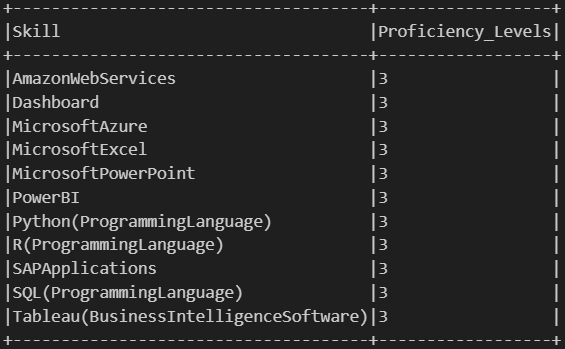
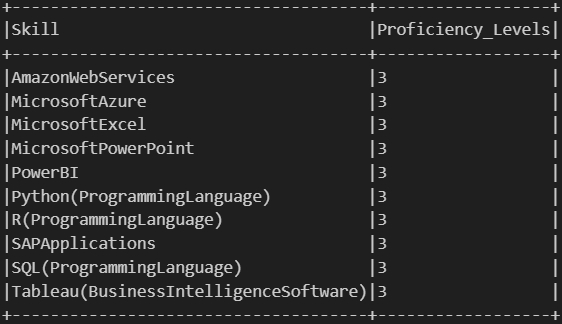
Built site for gh-pages

diff --git a/skill_gap_analysis.html b/skill_gap_analysis.html
@@ -209,7 +209,7 @@ pre > code.sourceCode > span > a:first-child::before { text-decoration: underlin
 </header>
 
 
-<div id="30c516d3" class="cell" data-execution_count="1">
+<div id="5d2c0c7f" class="cell" data-execution_count="1">
 <details class="code-fold">
 <summary>Code</summary>
 <div class="sourceCode cell-code" id="cb1"><pre class="sourceCode python code-with-copy"><code class="sourceCode python"><span id="cb1-1"><a href="#cb1-1" aria-hidden="true" tabindex="-1"></a><span class="im">import</span> pandas <span class="im">as</span> pd</span>
@@ -231,7 +231,7 @@ pre > code.sourceCode > span > a:first-child::before { text-decoration: underlin
 <section id="creating-a-team-based-skills-data-framework" class="level2" data-number="1">
 <h2 data-number="1" class="anchored" data-anchor-id="creating-a-team-based-skills-data-framework"><span class="header-section-number">1</span> Creating a team-based skills data framework</h2>
 <p>We take a column of software skill names from the cleaned dataset, splits each entry, cleans up the text, and counts how often each skill appears. Then, we grabs the top 30 most frequent skills, and puts them into a tidy table using pandas to make it easier to view.</p>
-<div id="704a8bbf" class="cell" data-execution_count="2">
+<div id="e9626d57" class="cell" data-execution_count="2">
 <details class="code-fold">
 <summary>Code</summary>
 <div class="sourceCode cell-code" id="cb2"><pre class="sourceCode python code-with-copy"><code class="sourceCode python"><span id="cb2-1"><a href="#cb2-1" aria-hidden="true" tabindex="-1"></a><span class="im">from</span> collections <span class="im">import</span> Counter</span>
@@ -258,7 +258,7 @@ pre > code.sourceCode > span > a:first-child::before { text-decoration: underlin
 </details>
 </div>
 <p>We build a table showing the skill levels of our team members across various tools like SQL, Excel, Python, and others. Then we create a heatmap to visually highlight each person’s strengths and weaknesses, making it easy to compare skill levels across the team.</p>
-<div id="5a4fcc85" class="cell" data-execution_count="3">
+<div id="ddbd346f" class="cell" data-execution_count="3">
 <details class="code-fold">
 <summary>Code</summary>
 <div class="sourceCode cell-code" id="cb3"><pre class="sourceCode python code-with-copy"><code class="sourceCode python"><span id="cb3-1"><a href="#cb3-1" aria-hidden="true" tabindex="-1"></a><span class="im">import</span> pandas <span class="im">as</span> pd</span>
@@ -268,36 +268,35 @@ pre > code.sourceCode > span > a:first-child::before { text-decoration: underlin
 <span id="cb3-5"><a href="#cb3-5" aria-hidden="true" tabindex="-1"></a><span class="co"># 1. Construct team skill level data</span></span>
 <span id="cb3-6"><a href="#cb3-6" aria-hidden="true" tabindex="-1"></a>skills_data <span class="op">=</span> {</span>
 <span id="cb3-7"><a href="#cb3-7" aria-hidden="true" tabindex="-1"></a>    <span class="st">"Name"</span>: [<span class="st">"Yuxuan Chen"</span>, <span class="st">"Shangxuan Zhong"</span>, <span class="st">"Qimin Shen"</span>, <span class="st">"Altyn Baigaliyeva"</span>],</span>
-<span id="cb3-8"><a href="#cb3-8" aria-hidden="true" tabindex="-1"></a>    <span class="st">"SQL"</span>: [<span class="dv">5</span>, <span class="dv">4</span>, <span class="dv">4</span>, <span class="dv">2</span>],</span>
+<span id="cb3-8"><a href="#cb3-8" aria-hidden="true" tabindex="-1"></a>    <span class="st">"SQL"</span>: [<span class="dv">3</span>, <span class="dv">4</span>, <span class="dv">4</span>, <span class="dv">2</span>],</span>
 <span id="cb3-9"><a href="#cb3-9" aria-hidden="true" tabindex="-1"></a>    <span class="st">"Excel"</span>: [<span class="dv">4</span>, <span class="dv">4</span>, <span class="dv">4</span>, <span class="dv">3</span>],</span>
-<span id="cb3-10"><a href="#cb3-10" aria-hidden="true" tabindex="-1"></a>    <span class="st">"Python"</span>: [<span class="dv">3</span>, <span class="dv">4</span>, <span class="dv">4</span>, <span class="dv">2</span>],</span>
-<span id="cb3-11"><a href="#cb3-11" aria-hidden="true" tabindex="-1"></a>    <span class="st">"SAP Applications"</span>: [<span class="dv">2</span>, <span class="dv">2</span>, <span class="dv">2</span>, <span class="dv">1</span>],</span>
-<span id="cb3-12"><a href="#cb3-12" aria-hidden="true" tabindex="-1"></a>    <span class="st">"Dashboard"</span>: [<span class="dv">2</span>, <span class="dv">2</span>, <span class="dv">2</span>, <span class="dv">1</span>],</span>
-<span id="cb3-13"><a href="#cb3-13" aria-hidden="true" tabindex="-1"></a>    <span class="st">"Tableau"</span>: [<span class="dv">2</span>, <span class="dv">2</span>, <span class="dv">1</span>, <span class="dv">1</span>],</span>
-<span id="cb3-14"><a href="#cb3-14" aria-hidden="true" tabindex="-1"></a>    <span class="st">"PowerBI"</span>: [<span class="dv">2</span>, <span class="dv">2</span>, <span class="dv">2</span>, <span class="dv">1</span>],</span>
-<span id="cb3-15"><a href="#cb3-15" aria-hidden="true" tabindex="-1"></a>    <span class="st">"PowerPoint"</span>: [<span class="dv">2</span>, <span class="dv">4</span>, <span class="dv">3</span>, <span class="dv">1</span>],</span>
-<span id="cb3-16"><a href="#cb3-16" aria-hidden="true" tabindex="-1"></a>    <span class="st">"R"</span>: [<span class="dv">2</span>, <span class="dv">4</span>, <span class="dv">4</span>, <span class="dv">1</span>],</span>
-<span id="cb3-17"><a href="#cb3-17" aria-hidden="true" tabindex="-1"></a>    <span class="st">"Azure"</span>: [<span class="dv">2</span>, <span class="dv">2</span>, <span class="dv">1</span>, <span class="dv">1</span>],</span>
-<span id="cb3-18"><a href="#cb3-18" aria-hidden="true" tabindex="-1"></a>    <span class="st">"Amazon Web Services"</span>: [<span class="dv">2</span>, <span class="dv">2</span>, <span class="dv">3</span>, <span class="dv">1</span>]</span>
-<span id="cb3-19"><a href="#cb3-19" aria-hidden="true" tabindex="-1"></a>}</span>
-<span id="cb3-20"><a href="#cb3-20" aria-hidden="true" tabindex="-1"></a></span>
-<span id="cb3-21"><a href="#cb3-21" aria-hidden="true" tabindex="-1"></a><span class="co"># 2. Create dataframe and set Name as index</span></span>
-<span id="cb3-22"><a href="#cb3-22" aria-hidden="true" tabindex="-1"></a>df_skills <span class="op">=</span> pd.DataFrame(skills_data)</span>
-<span id="cb3-23"><a href="#cb3-23" aria-hidden="true" tabindex="-1"></a>df_skills.set_index(<span class="st">"Name"</span>, inplace<span class="op">=</span><span class="va">True</span>)</span>
-<span id="cb3-24"><a href="#cb3-24" aria-hidden="true" tabindex="-1"></a></span>
-<span id="cb3-25"><a href="#cb3-25" aria-hidden="true" tabindex="-1"></a><span class="co"># 3. Demonstrate the skill level chart</span></span>
-<span id="cb3-26"><a href="#cb3-26" aria-hidden="true" tabindex="-1"></a><span class="co">#print("Team Skill Rating Scale:")</span></span>
-<span id="cb3-27"><a href="#cb3-27" aria-hidden="true" tabindex="-1"></a><span class="co">#display(df_skills) </span></span>
-<span id="cb3-28"><a href="#cb3-28" aria-hidden="true" tabindex="-1"></a></span>
-<span id="cb3-29"><a href="#cb3-29" aria-hidden="true" tabindex="-1"></a><span class="co"># 4. Visualize the skills gap by heat map</span></span>
-<span id="cb3-30"><a href="#cb3-30" aria-hidden="true" tabindex="-1"></a>plt.figure(figsize<span class="op">=</span>(<span class="dv">8</span>, <span class="dv">6</span>))</span>
-<span id="cb3-31"><a href="#cb3-31" aria-hidden="true" tabindex="-1"></a>sns.heatmap(df_skills, annot<span class="op">=</span><span class="va">True</span>, cmap<span class="op">=</span><span class="st">"coolwarm"</span>, linewidths<span class="op">=</span><span class="fl">0.5</span>, cbar_kws<span class="op">=</span>{<span class="st">'label'</span>: <span class="st">'Skill Level'</span>})</span>
-<span id="cb3-32"><a href="#cb3-32" aria-hidden="true" tabindex="-1"></a>plt.title(<span class="st">"Team Skill Levels Heatmap"</span>)</span>
-<span id="cb3-33"><a href="#cb3-33" aria-hidden="true" tabindex="-1"></a>plt.xticks(rotation<span class="op">=</span><span class="dv">45</span>)  </span>
-<span id="cb3-34"><a href="#cb3-34" aria-hidden="true" tabindex="-1"></a>plt.yticks(rotation<span class="op">=</span><span class="dv">0</span>)</span>
-<span id="cb3-35"><a href="#cb3-35" aria-hidden="true" tabindex="-1"></a>plt.tight_layout()</span>
-<span id="cb3-36"><a href="#cb3-36" aria-hidden="true" tabindex="-1"></a>plt.savefig(<span class="st">"images/Skill_Level.png"</span>, dpi<span class="op">=</span><span class="dv">300</span>)</span>
-<span id="cb3-37"><a href="#cb3-37" aria-hidden="true" tabindex="-1"></a>plt.show()</span></code><button title="Copy to Clipboard" class="code-copy-button"><i class="bi"></i></button></pre></div>
+<span id="cb3-10"><a href="#cb3-10" aria-hidden="true" tabindex="-1"></a>    <span class="st">"Python"</span>: [<span class="dv">4</span>, <span class="dv">4</span>, <span class="dv">4</span>, <span class="dv">2</span>],</span>
+<span id="cb3-11"><a href="#cb3-11" aria-hidden="true" tabindex="-1"></a>    <span class="st">"SAP Applications"</span>: [<span class="dv">1</span>, <span class="dv">2</span>, <span class="dv">2</span>, <span class="dv">1</span>],</span>
+<span id="cb3-12"><a href="#cb3-12" aria-hidden="true" tabindex="-1"></a>    <span class="st">"Tableau"</span>: [<span class="dv">3</span>, <span class="dv">2</span>, <span class="dv">1</span>, <span class="dv">1</span>],</span>
+<span id="cb3-13"><a href="#cb3-13" aria-hidden="true" tabindex="-1"></a>    <span class="st">"PowerBI"</span>: [<span class="dv">3</span>, <span class="dv">2</span>, <span class="dv">2</span>, <span class="dv">1</span>],</span>
+<span id="cb3-14"><a href="#cb3-14" aria-hidden="true" tabindex="-1"></a>    <span class="st">"PowerPoint"</span>: [<span class="dv">4</span>, <span class="dv">4</span>, <span class="dv">3</span>, <span class="dv">1</span>],</span>
+<span id="cb3-15"><a href="#cb3-15" aria-hidden="true" tabindex="-1"></a>    <span class="st">"R"</span>: [<span class="dv">4</span>, <span class="dv">4</span>, <span class="dv">4</span>, <span class="dv">1</span>],</span>
+<span id="cb3-16"><a href="#cb3-16" aria-hidden="true" tabindex="-1"></a>    <span class="st">"Azure"</span>: [<span class="dv">2</span>, <span class="dv">2</span>, <span class="dv">1</span>, <span class="dv">1</span>],</span>
+<span id="cb3-17"><a href="#cb3-17" aria-hidden="true" tabindex="-1"></a>    <span class="st">"Amazon Web Services"</span>: [<span class="dv">3</span>, <span class="dv">2</span>, <span class="dv">3</span>, <span class="dv">1</span>]</span>
+<span id="cb3-18"><a href="#cb3-18" aria-hidden="true" tabindex="-1"></a>}</span>
+<span id="cb3-19"><a href="#cb3-19" aria-hidden="true" tabindex="-1"></a></span>
+<span id="cb3-20"><a href="#cb3-20" aria-hidden="true" tabindex="-1"></a><span class="co"># 2. Create dataframe and set Name as index</span></span>
+<span id="cb3-21"><a href="#cb3-21" aria-hidden="true" tabindex="-1"></a>df_skills <span class="op">=</span> pd.DataFrame(skills_data)</span>
+<span id="cb3-22"><a href="#cb3-22" aria-hidden="true" tabindex="-1"></a>df_skills.set_index(<span class="st">"Name"</span>, inplace<span class="op">=</span><span class="va">True</span>)</span>
+<span id="cb3-23"><a href="#cb3-23" aria-hidden="true" tabindex="-1"></a></span>
+<span id="cb3-24"><a href="#cb3-24" aria-hidden="true" tabindex="-1"></a><span class="co"># 3. Demonstrate the skill level chart</span></span>
+<span id="cb3-25"><a href="#cb3-25" aria-hidden="true" tabindex="-1"></a><span class="co">#print("Team Skill Rating Scale:")</span></span>
+<span id="cb3-26"><a href="#cb3-26" aria-hidden="true" tabindex="-1"></a><span class="co">#display(df_skills) </span></span>
+<span id="cb3-27"><a href="#cb3-27" aria-hidden="true" tabindex="-1"></a></span>
+<span id="cb3-28"><a href="#cb3-28" aria-hidden="true" tabindex="-1"></a><span class="co"># 4. Visualize the skills gap by heat map</span></span>
+<span id="cb3-29"><a href="#cb3-29" aria-hidden="true" tabindex="-1"></a>plt.figure(figsize<span class="op">=</span>(<span class="dv">8</span>, <span class="dv">6</span>))</span>
+<span id="cb3-30"><a href="#cb3-30" aria-hidden="true" tabindex="-1"></a>sns.heatmap(df_skills, annot<span class="op">=</span><span class="va">True</span>, cmap<span class="op">=</span><span class="st">"coolwarm"</span>, linewidths<span class="op">=</span><span class="fl">0.5</span>, cbar_kws<span class="op">=</span>{<span class="st">'label'</span>: <span class="st">'Skill Level'</span>})</span>
+<span id="cb3-31"><a href="#cb3-31" aria-hidden="true" tabindex="-1"></a>plt.title(<span class="st">"Team Skill Levels Heatmap"</span>)</span>
+<span id="cb3-32"><a href="#cb3-32" aria-hidden="true" tabindex="-1"></a>plt.xticks(rotation<span class="op">=</span><span class="dv">45</span>)  </span>
+<span id="cb3-33"><a href="#cb3-33" aria-hidden="true" tabindex="-1"></a>plt.yticks(rotation<span class="op">=</span><span class="dv">0</span>)</span>
+<span id="cb3-34"><a href="#cb3-34" aria-hidden="true" tabindex="-1"></a>plt.tight_layout()</span>
+<span id="cb3-35"><a href="#cb3-35" aria-hidden="true" tabindex="-1"></a>plt.savefig(<span class="st">"images/Skill_Level.png"</span>, dpi<span class="op">=</span><span class="dv">300</span>)</span>
+<span id="cb3-36"><a href="#cb3-36" aria-hidden="true" tabindex="-1"></a>plt.show()</span></code><button title="Copy to Clipboard" class="code-copy-button"><i class="bi"></i></button></pre></div>
 </details>
 </div>
 <p><img src="./images/Skill_Level.png" class="img-fluid" alt="Team strengths and gaps"> 缺少解释 这个我就先不解释了，等大家数据更新完重新画了再解释，我把我数据改了</p>
@@ -305,7 +304,7 @@ pre > code.sourceCode > span > a:first-child::before { text-decoration: underlin
 <section id="compare-team-skills-to-industry-requirements" class="level2" data-number="2">
 <h2 data-number="2" class="anchored" data-anchor-id="compare-team-skills-to-industry-requirements"><span class="header-section-number">2</span> Compare team skills to industry requirements</h2>
 <p>We add a new column EDU_MATCH to the dataset to check if each person’s actual education level matches the minimum education requirement. If they match, it labels the row as “Match”; otherwise, it marks it as “Mismatch.” This makes it easy to see who meets the education criteria and who doesn’t.</p>
-<div id="90f25b81" class="cell" data-execution_count="4">
+<div id="4c84757c" class="cell" data-execution_count="4">
 <details class="code-fold">
 <summary>Code</summary>
 <div class="sourceCode cell-code" id="cb4"><pre class="sourceCode python code-with-copy"><code class="sourceCode python"><span id="cb4-1"><a href="#cb4-1" aria-hidden="true" tabindex="-1"></a><span class="im">from</span> pyspark.sql.functions <span class="im">import</span> col, when</span>
@@ -326,7 +325,7 @@ pre > code.sourceCode > span > a:first-child::before { text-decoration: underlin
 </details>
 </div>
 <p>Then we create a reference table that links each unique minimum education level required for a job to a corresponding score. It assigns higher scores to higher education levels, for example, a Ph.D.&nbsp;gets a 5, a Master’s a 4, and so on, down to 0 for jobs that list no education requirement. And we think this scoring helps quantify and compare job expectations based on the level of education required.</p>
-<div id="966dbee7" class="cell" data-execution_count="5">
+<div id="f14a47ba" class="cell" data-execution_count="5">
 <details class="code-fold">
 <summary>Code</summary>
 <div class="sourceCode cell-code" id="cb5"><pre class="sourceCode python code-with-copy"><code class="sourceCode python"><span id="cb5-1"><a href="#cb5-1" aria-hidden="true" tabindex="-1"></a><span class="im">from</span> pyspark.sql.functions <span class="im">import</span> when, lit, col, trim</span>
@@ -356,7 +355,7 @@ pre > code.sourceCode > span > a:first-child::before { text-decoration: underlin
 </figure>
 </div>
 <p>We analyze how often each software skill appears in job listings, categorized by the required education level (which we previously converted into scores). First, we join the education score to each job, split the combined skill strings into individual skills, and count how frequently each skill appears at each education score level. Second, we reshape the data so that each skill shows the number of times it appears across all score levels. Finally, we identify the most common score for each skill. If multiple scores tie for the highest count, we will select the lowest one among them—resulting in a “Proficiency_Levels” value that reflects the typical education requirement associated with that skill in the job market.</p>
-<div id="cdc6b488" class="cell" data-execution_count="6">
+<div id="e78458f7" class="cell" data-execution_count="6">
 <details class="code-fold">
 <summary>Code</summary>
 <div class="sourceCode cell-code" id="cb6"><pre class="sourceCode python code-with-copy"><code class="sourceCode python"><span id="cb6-1"><a href="#cb6-1" aria-hidden="true" tabindex="-1"></a><span class="im">from</span> pyspark.sql.functions <span class="im">import</span> count, array, struct, sort_array, expr, size, element_at, col, lit, greatest, when</span>
@@ -402,7 +401,7 @@ pre > code.sourceCode > span > a:first-child::before { text-decoration: underlin
 </details>
 </div>
 <p>Here we focus on a specific set of software skills that are relevant to our analysis. First, we define a list of target skills we’re interested in, such as SQL, Excel, Python, Tableau, and others. Then, we filter our previously processed skill data to only include these selected skills, keeping just the skill names and their associated “Proficiency_Levels”. Finally, we sort the result alphabetically by skill name to make it easier to review and compare.</p>
-<div id="bf56fb79" class="cell" data-execution_count="7">
+<div id="d254e016" class="cell" data-execution_count="7">
 <details class="code-fold">
 <summary>Code</summary>
 <div class="sourceCode cell-code" id="cb7"><pre class="sourceCode python code-with-copy"><code class="sourceCode python"><span id="cb7-1"><a href="#cb7-1" aria-hidden="true" tabindex="-1"></a><span class="im">from</span> pyspark.sql.functions <span class="im">import</span> lit</span>
@@ -410,7 +409,7 @@ pre > code.sourceCode > span > a:first-child::before { text-decoration: underlin
 <span id="cb7-3"><a href="#cb7-3" aria-hidden="true" tabindex="-1"></a><span class="co"># 1. Define a list of target skills</span></span>
 <span id="cb7-4"><a href="#cb7-4" aria-hidden="true" tabindex="-1"></a>target_skills <span class="op">=</span> [</span>
 <span id="cb7-5"><a href="#cb7-5" aria-hidden="true" tabindex="-1"></a>    <span class="st">"SQL(ProgrammingLanguage)"</span>, <span class="st">"MicrosoftExcel"</span>, <span class="st">"Python(ProgrammingLanguage)"</span>,</span>
-<span id="cb7-6"><a href="#cb7-6" aria-hidden="true" tabindex="-1"></a>    <span class="st">"SAPApplications"</span>, <span class="st">"Dashboard"</span>, <span class="st">"Tableau(BusinessIntelligenceSoftware)"</span>,</span>
+<span id="cb7-6"><a href="#cb7-6" aria-hidden="true" tabindex="-1"></a>    <span class="st">"SAPApplications"</span>, <span class="st">"Tableau(BusinessIntelligenceSoftware)"</span>,</span>
 <span id="cb7-7"><a href="#cb7-7" aria-hidden="true" tabindex="-1"></a>    <span class="st">"PowerBI"</span>, <span class="st">"MicrosoftPowerPoint"</span>, <span class="st">"R(ProgrammingLanguage)"</span>,</span>
 <span id="cb7-8"><a href="#cb7-8" aria-hidden="true" tabindex="-1"></a>    <span class="st">"MicrosoftAzure"</span>, <span class="st">"AmazonWebServices"</span></span>
 <span id="cb7-9"><a href="#cb7-9" aria-hidden="true" tabindex="-1"></a>]</span>
@@ -431,7 +430,7 @@ pre > code.sourceCode > span > a:first-child::before { text-decoration: underlin
 </figure>
 </div>
 <p>Now we are able to evaluate how well our team’s skill levels match up with job market expectations. First, we collect the proficiency scores for a set of target skills from our previous results. Then, we rename the skill labels into a more readable and consistent format for easier comparison. Next, we calculate the skill gap for each team member by subtracting the job-required score from their actual skill level. Here, positive values mean the team exceeds the requirement, while negative values show areas for improvement. Finally, we visualize these gaps using a heatmap, making it easy to spot which skills are strong and which need development across the team.</p>
-<div id="963fecf1" class="cell" data-execution_count="8">
+<div id="95f42116" class="cell" data-execution_count="8">
 <details class="code-fold">
 <summary>Code</summary>
 <div class="sourceCode cell-code" id="cb8"><pre class="sourceCode python code-with-copy"><code class="sourceCode python"><span id="cb8-1"><a href="#cb8-1" aria-hidden="true" tabindex="-1"></a><span class="im">import</span> pandas <span class="im">as</span> pd</span>
@@ -447,44 +446,43 @@ pre > code.sourceCode > span > a:first-child::before { text-decoration: underlin
 <span id="cb8-11"><a href="#cb8-11" aria-hidden="true" tabindex="-1"></a>    <span class="st">"MicrosoftExcel"</span>: <span class="st">"Excel"</span>,</span>
 <span id="cb8-12"><a href="#cb8-12" aria-hidden="true" tabindex="-1"></a>    <span class="st">"Python(ProgrammingLanguage)"</span>: <span class="st">"Python"</span>,</span>
 <span id="cb8-13"><a href="#cb8-13" aria-hidden="true" tabindex="-1"></a>    <span class="st">"SAPApplications"</span>: <span class="st">"SAP Applications"</span>,</span>
-<span id="cb8-14"><a href="#cb8-14" aria-hidden="true" tabindex="-1"></a>    <span class="st">"Dashboard"</span>: <span class="st">"Dashboard"</span>,</span>
-<span id="cb8-15"><a href="#cb8-15" aria-hidden="true" tabindex="-1"></a>    <span class="st">"Tableau(BusinessIntelligenceSoftware)"</span>: <span class="st">"Tableau"</span>,</span>
-<span id="cb8-16"><a href="#cb8-16" aria-hidden="true" tabindex="-1"></a>    <span class="st">"PowerBI"</span>: <span class="st">"PowerBI"</span>,</span>
-<span id="cb8-17"><a href="#cb8-17" aria-hidden="true" tabindex="-1"></a>    <span class="st">"MicrosoftPowerPoint"</span>: <span class="st">"PowerPoint"</span>,</span>
-<span id="cb8-18"><a href="#cb8-18" aria-hidden="true" tabindex="-1"></a>    <span class="st">"R(ProgrammingLanguage)"</span>: <span class="st">"R"</span>,</span>
-<span id="cb8-19"><a href="#cb8-19" aria-hidden="true" tabindex="-1"></a>    <span class="st">"MicrosoftAzure"</span>: <span class="st">"Azure"</span>,</span>
-<span id="cb8-20"><a href="#cb8-20" aria-hidden="true" tabindex="-1"></a>    <span class="st">"AmazonWebServices"</span>: <span class="st">"Amazon Web Services"</span></span>
-<span id="cb8-21"><a href="#cb8-21" aria-hidden="true" tabindex="-1"></a>}</span>
-<span id="cb8-22"><a href="#cb8-22" aria-hidden="true" tabindex="-1"></a></span>
-<span id="cb8-23"><a href="#cb8-23" aria-hidden="true" tabindex="-1"></a><span class="co"># 3. Construction of required_levels</span></span>
-<span id="cb8-24"><a href="#cb8-24" aria-hidden="true" tabindex="-1"></a>required_levels <span class="op">=</span> {</span>
-<span id="cb8-25"><a href="#cb8-25" aria-hidden="true" tabindex="-1"></a>    skill_name_map.get(row[<span class="st">"Skill"</span>], row[<span class="st">"Skill"</span>]): row[<span class="st">"Proficiency_Levels"</span>]</span>
-<span id="cb8-26"><a href="#cb8-26" aria-hidden="true" tabindex="-1"></a>    <span class="cf">for</span> row <span class="kw">in</span> rows</span>
-<span id="cb8-27"><a href="#cb8-27" aria-hidden="true" tabindex="-1"></a>}</span>
-<span id="cb8-28"><a href="#cb8-28" aria-hidden="true" tabindex="-1"></a></span>
-<span id="cb8-29"><a href="#cb8-29" aria-hidden="true" tabindex="-1"></a><span class="co"># 4. Calculation of gaps (team skills - job requirements)</span></span>
-<span id="cb8-30"><a href="#cb8-30" aria-hidden="true" tabindex="-1"></a>df_gap <span class="op">=</span> df_skills.copy()</span>
-<span id="cb8-31"><a href="#cb8-31" aria-hidden="true" tabindex="-1"></a><span class="cf">for</span> skill <span class="kw">in</span> df_gap.columns:</span>
-<span id="cb8-32"><a href="#cb8-32" aria-hidden="true" tabindex="-1"></a>    required <span class="op">=</span> required_levels.get(skill, <span class="dv">0</span>)</span>
-<span id="cb8-33"><a href="#cb8-33" aria-hidden="true" tabindex="-1"></a>    df_gap[skill] <span class="op">=</span> df_gap[skill] <span class="op">-</span> required</span>
-<span id="cb8-34"><a href="#cb8-34" aria-hidden="true" tabindex="-1"></a></span>
-<span id="cb8-35"><a href="#cb8-35" aria-hidden="true" tabindex="-1"></a><span class="co"># 5. Show result with heat map</span></span>
-<span id="cb8-36"><a href="#cb8-36" aria-hidden="true" tabindex="-1"></a>plt.figure(figsize<span class="op">=</span>(<span class="dv">10</span>, <span class="dv">6</span>))</span>
-<span id="cb8-37"><a href="#cb8-37" aria-hidden="true" tabindex="-1"></a>sns.heatmap(</span>
-<span id="cb8-38"><a href="#cb8-38" aria-hidden="true" tabindex="-1"></a>    df_gap,</span>
-<span id="cb8-39"><a href="#cb8-39" aria-hidden="true" tabindex="-1"></a>    annot<span class="op">=</span><span class="va">True</span>,</span>
-<span id="cb8-40"><a href="#cb8-40" aria-hidden="true" tabindex="-1"></a>    cmap<span class="op">=</span>sns.diverging_palette(<span class="dv">10</span>, <span class="dv">130</span>, s<span class="op">=</span><span class="dv">90</span>, l<span class="op">=</span><span class="dv">50</span>, as_cmap<span class="op">=</span><span class="va">True</span>),  </span>
-<span id="cb8-41"><a href="#cb8-41" aria-hidden="true" tabindex="-1"></a>    <span class="co"># red = insufficient, green = exceeding</span></span>
-<span id="cb8-42"><a href="#cb8-42" aria-hidden="true" tabindex="-1"></a>    center<span class="op">=</span><span class="dv">0</span>,</span>
-<span id="cb8-43"><a href="#cb8-43" aria-hidden="true" tabindex="-1"></a>    linewidths<span class="op">=</span><span class="fl">0.5</span>,</span>
-<span id="cb8-44"><a href="#cb8-44" aria-hidden="true" tabindex="-1"></a>    cbar_kws<span class="op">=</span>{<span class="st">'label'</span>: <span class="st">'Skill Surplus (Team - Required)'</span>}</span>
-<span id="cb8-45"><a href="#cb8-45" aria-hidden="true" tabindex="-1"></a>)</span>
-<span id="cb8-46"><a href="#cb8-46" aria-hidden="true" tabindex="-1"></a>plt.title(<span class="st">"Team vs Job Skill Requirements (Heatmap)"</span>)</span>
-<span id="cb8-47"><a href="#cb8-47" aria-hidden="true" tabindex="-1"></a>plt.xticks(rotation<span class="op">=</span><span class="dv">45</span>)</span>
-<span id="cb8-48"><a href="#cb8-48" aria-hidden="true" tabindex="-1"></a>plt.yticks(rotation<span class="op">=</span><span class="dv">0</span>)</span>
-<span id="cb8-49"><a href="#cb8-49" aria-hidden="true" tabindex="-1"></a>plt.tight_layout()</span>
-<span id="cb8-50"><a href="#cb8-50" aria-hidden="true" tabindex="-1"></a>plt.savefig(<span class="st">"images/Gaps_Between.png"</span>, dpi<span class="op">=</span><span class="dv">300</span>)</span>
-<span id="cb8-51"><a href="#cb8-51" aria-hidden="true" tabindex="-1"></a>plt.show()</span></code><button title="Copy to Clipboard" class="code-copy-button"><i class="bi"></i></button></pre></div>
+<span id="cb8-14"><a href="#cb8-14" aria-hidden="true" tabindex="-1"></a>    <span class="st">"Tableau(BusinessIntelligenceSoftware)"</span>: <span class="st">"Tableau"</span>,</span>
+<span id="cb8-15"><a href="#cb8-15" aria-hidden="true" tabindex="-1"></a>    <span class="st">"PowerBI"</span>: <span class="st">"PowerBI"</span>,</span>
+<span id="cb8-16"><a href="#cb8-16" aria-hidden="true" tabindex="-1"></a>    <span class="st">"MicrosoftPowerPoint"</span>: <span class="st">"PowerPoint"</span>,</span>
+<span id="cb8-17"><a href="#cb8-17" aria-hidden="true" tabindex="-1"></a>    <span class="st">"R(ProgrammingLanguage)"</span>: <span class="st">"R"</span>,</span>
+<span id="cb8-18"><a href="#cb8-18" aria-hidden="true" tabindex="-1"></a>    <span class="st">"MicrosoftAzure"</span>: <span class="st">"Azure"</span>,</span>
+<span id="cb8-19"><a href="#cb8-19" aria-hidden="true" tabindex="-1"></a>    <span class="st">"AmazonWebServices"</span>: <span class="st">"Amazon Web Services"</span></span>
+<span id="cb8-20"><a href="#cb8-20" aria-hidden="true" tabindex="-1"></a>}</span>
+<span id="cb8-21"><a href="#cb8-21" aria-hidden="true" tabindex="-1"></a></span>
+<span id="cb8-22"><a href="#cb8-22" aria-hidden="true" tabindex="-1"></a><span class="co"># 3. Construction of required_levels</span></span>
+<span id="cb8-23"><a href="#cb8-23" aria-hidden="true" tabindex="-1"></a>required_levels <span class="op">=</span> {</span>
+<span id="cb8-24"><a href="#cb8-24" aria-hidden="true" tabindex="-1"></a>    skill_name_map.get(row[<span class="st">"Skill"</span>], row[<span class="st">"Skill"</span>]): row[<span class="st">"Proficiency_Levels"</span>]</span>
+<span id="cb8-25"><a href="#cb8-25" aria-hidden="true" tabindex="-1"></a>    <span class="cf">for</span> row <span class="kw">in</span> rows</span>
+<span id="cb8-26"><a href="#cb8-26" aria-hidden="true" tabindex="-1"></a>}</span>
+<span id="cb8-27"><a href="#cb8-27" aria-hidden="true" tabindex="-1"></a></span>
+<span id="cb8-28"><a href="#cb8-28" aria-hidden="true" tabindex="-1"></a><span class="co"># 4. Calculation of gaps (team skills - job requirements)</span></span>
+<span id="cb8-29"><a href="#cb8-29" aria-hidden="true" tabindex="-1"></a>df_gap <span class="op">=</span> df_skills.copy()</span>
+<span id="cb8-30"><a href="#cb8-30" aria-hidden="true" tabindex="-1"></a><span class="cf">for</span> skill <span class="kw">in</span> df_gap.columns:</span>
+<span id="cb8-31"><a href="#cb8-31" aria-hidden="true" tabindex="-1"></a>    required <span class="op">=</span> required_levels.get(skill, <span class="dv">0</span>)</span>
+<span id="cb8-32"><a href="#cb8-32" aria-hidden="true" tabindex="-1"></a>    df_gap[skill] <span class="op">=</span> df_gap[skill] <span class="op">-</span> required</span>
+<span id="cb8-33"><a href="#cb8-33" aria-hidden="true" tabindex="-1"></a></span>
+<span id="cb8-34"><a href="#cb8-34" aria-hidden="true" tabindex="-1"></a><span class="co"># 5. Show result with heat map</span></span>
+<span id="cb8-35"><a href="#cb8-35" aria-hidden="true" tabindex="-1"></a>plt.figure(figsize<span class="op">=</span>(<span class="dv">10</span>, <span class="dv">6</span>))</span>
+<span id="cb8-36"><a href="#cb8-36" aria-hidden="true" tabindex="-1"></a>sns.heatmap(</span>
+<span id="cb8-37"><a href="#cb8-37" aria-hidden="true" tabindex="-1"></a>    df_gap,</span>
+<span id="cb8-38"><a href="#cb8-38" aria-hidden="true" tabindex="-1"></a>    annot<span class="op">=</span><span class="va">True</span>,</span>
+<span id="cb8-39"><a href="#cb8-39" aria-hidden="true" tabindex="-1"></a>    cmap<span class="op">=</span>sns.diverging_palette(<span class="dv">10</span>, <span class="dv">130</span>, s<span class="op">=</span><span class="dv">90</span>, l<span class="op">=</span><span class="dv">50</span>, as_cmap<span class="op">=</span><span class="va">True</span>),  </span>
+<span id="cb8-40"><a href="#cb8-40" aria-hidden="true" tabindex="-1"></a>    <span class="co"># red = insufficient, green = exceeding</span></span>
+<span id="cb8-41"><a href="#cb8-41" aria-hidden="true" tabindex="-1"></a>    center<span class="op">=</span><span class="dv">0</span>,</span>
+<span id="cb8-42"><a href="#cb8-42" aria-hidden="true" tabindex="-1"></a>    linewidths<span class="op">=</span><span class="fl">0.5</span>,</span>
+<span id="cb8-43"><a href="#cb8-43" aria-hidden="true" tabindex="-1"></a>    cbar_kws<span class="op">=</span>{<span class="st">'label'</span>: <span class="st">'Skill Surplus (Team - Required)'</span>}</span>
+<span id="cb8-44"><a href="#cb8-44" aria-hidden="true" tabindex="-1"></a>)</span>
+<span id="cb8-45"><a href="#cb8-45" aria-hidden="true" tabindex="-1"></a>plt.title(<span class="st">"Team vs Job Skill Requirements (Heatmap)"</span>)</span>
+<span id="cb8-46"><a href="#cb8-46" aria-hidden="true" tabindex="-1"></a>plt.xticks(rotation<span class="op">=</span><span class="dv">45</span>)</span>
+<span id="cb8-47"><a href="#cb8-47" aria-hidden="true" tabindex="-1"></a>plt.yticks(rotation<span class="op">=</span><span class="dv">0</span>)</span>
+<span id="cb8-48"><a href="#cb8-48" aria-hidden="true" tabindex="-1"></a>plt.tight_layout()</span>
+<span id="cb8-49"><a href="#cb8-49" aria-hidden="true" tabindex="-1"></a>plt.savefig(<span class="st">"images/Gaps_Between.png"</span>, dpi<span class="op">=</span><span class="dv">300</span>)</span>
+<span id="cb8-50"><a href="#cb8-50" aria-hidden="true" tabindex="-1"></a>plt.show()</span></code><button title="Copy to Clipboard" class="code-copy-button"><i class="bi"></i></button></pre></div>
 </details>
 </div>
 <p><img src="./images/Gaps_Between.png" class="img-fluid" alt="Gaps between team skill levels and job expectations"> 缺少解释 也一样，更新完数值再解释</p>

diff --git a/data_cleaning.html b/data_cleaning.html
@@ -222,7 +222,7 @@ pre > code.sourceCode > span > a:first-child::before { text-decoration: underlin
 
 <section id="load-the-dataset" class="level1">
 <h1>Load the dataset</h1>
-<div id="1da7d06f" class="cell" data-execution_count="1">
+<div id="99e55396" class="cell" data-execution_count="1">
 <details class="code-fold">
 <summary>Code</summary>
 <div class="sourceCode cell-code" id="cb1"><pre class="sourceCode python code-with-copy"><code class="sourceCode python"><span id="cb1-1"><a href="#cb1-1" aria-hidden="true" tabindex="-1"></a><span class="im">import</span> pandas <span class="im">as</span> pd</span>
@@ -243,7 +243,7 @@ pre > code.sourceCode > span > a:first-child::before { text-decoration: underlin
 <section id="update-duration" class="level2">
 <h2 class="anchored" data-anchor-id="update-duration">1. Update Duration</h2>
 <p>Calculates the duration of each job posting by finding the difference between its expiration and posted dates. Converts the POSTED and EXPIRED columns from string to date format. Update DURATION if it is null with the number of days between EXPIRED and POSTED, otherwise, the existing value is kept.</p>
-<div id="5f63e771" class="cell" data-execution_count="2">
+<div id="6501aa94" class="cell" data-execution_count="2">
 <details class="code-fold">
 <summary>Code</summary>
 <div class="sourceCode cell-code" id="cb2"><pre class="sourceCode python code-with-copy"><code class="sourceCode python"><span id="cb2-1"><a href="#cb2-1" aria-hidden="true" tabindex="-1"></a><span class="co"># 1.DURATION = EXPIRED - POSTED</span></span>
@@ -266,7 +266,7 @@ pre > code.sourceCode > span > a:first-child::before { text-decoration: underlin
 <section id="clean-the-columns" class="level2">
 <h2 class="anchored" data-anchor-id="clean-the-columns">2. Clean the columns</h2>
 <p>Cleans up multiple text columns in the DataFrame by extracting and formatting the content originally enclosed in double quotes. Columns to clean contain those string values often wrapped in brackets, double quotes, or cluttered with newlines and extra spaces. For each of these columns, using regular expressions to remove square brackets, line breaks, and excess whitespace, formats comma-separated items with a proper space after each comma, and removes all double quotes, resulting in cleaner, more readable text entries across the specified columns.</p>
-<div id="6da86f36" class="cell" data-execution_count="3">
+<div id="856ab52e" class="cell" data-execution_count="3">
 <details class="code-fold">
 <summary>Code</summary>
 <div class="sourceCode cell-code" id="cb3"><pre class="sourceCode python code-with-copy"><code class="sourceCode python"><span id="cb3-1"><a href="#cb3-1" aria-hidden="true" tabindex="-1"></a><span class="co"># 2. Remove square brackets, line breaks, spaces, and replace the formatting between commas with “,”, then remove the double quotes</span></span>
@@ -288,7 +288,7 @@ pre > code.sourceCode > span > a:first-child::before { text-decoration: underlin
 <section id="clean-the-education-level-column" class="level2">
 <h2 class="anchored" data-anchor-id="clean-the-education-level-column">3. Clean the education level column</h2>
 <p>Cleans the EDUCATION_LEVELS column by extracting and retaining only the numeric portion of each entry. Removing surrounding text or symbols, leaving just the numeric education level in the column. This makes the data more consistent and easier to work with for analysis or modeling purposes.</p>
-<div id="fb55f5df" class="cell" data-execution_count="4">
+<div id="9fa5472e" class="cell" data-execution_count="4">
 <details class="code-fold">
 <summary>Code</summary>
 <div class="sourceCode cell-code" id="cb4"><pre class="sourceCode python code-with-copy"><code class="sourceCode python"><span id="cb4-1"><a href="#cb4-1" aria-hidden="true" tabindex="-1"></a><span class="co"># 3.EDUCATION_LEVELS only keeps digits</span></span>
@@ -301,7 +301,7 @@ pre > code.sourceCode > span > a:first-child::before { text-decoration: underlin
 <section id="clean-the-location-column" class="level2">
 <h2 class="anchored" data-anchor-id="clean-the-location-column">4. Clean the location column</h2>
 <p>Cleans the LOCATION column, ensures that all location information appears on one line, and removes curly braces, resulting a cleaner, more uniform LOCATION column for reading and analyzing</p>
-<div id="324bff68" class="cell" data-execution_count="5">
+<div id="778f0b2e" class="cell" data-execution_count="5">
 <details class="code-fold">
 <summary>Code</summary>
 <div class="sourceCode cell-code" id="cb5"><pre class="sourceCode python code-with-copy"><code class="sourceCode python"><span id="cb5-1"><a href="#cb5-1" aria-hidden="true" tabindex="-1"></a><span class="co"># 4. LOCATION only keeps data</span></span>
@@ -315,7 +315,7 @@ pre > code.sourceCode > span > a:first-child::before { text-decoration: underlin
 <section id="update-modeled-duration" class="level2">
 <h2 class="anchored" data-anchor-id="update-modeled-duration">5. Update Modeled Duration</h2>
 <p>Similarly as in updating duration, fills in the value with the number of days between MODELED_EXPIRED and POSTED, helps standardize and complete the duration data for modeled job postings</p>
-<div id="dbedd8b9" class="cell" data-execution_count="6">
+<div id="a8092567" class="cell" data-execution_count="6">
 <details class="code-fold">
 <summary>Code</summary>
 <div class="sourceCode cell-code" id="cb6"><pre class="sourceCode python code-with-copy"><code class="sourceCode python"><span id="cb6-1"><a href="#cb6-1" aria-hidden="true" tabindex="-1"></a><span class="co"># 5.MODELED_DURATION = MODELED_EXPIRED - POSTED</span></span>
@@ -337,7 +337,7 @@ pre > code.sourceCode > span > a:first-child::before { text-decoration: underlin
 <section id="standardize-remote-work-types" class="level2">
 <h2 class="anchored" data-anchor-id="standardize-remote-work-types">6. Standardize Remote Work Types</h2>
 <p>Standardizes the values in the REMOTE_TYPE_NAME column to ensure consistency in describing remote work types. Replaces values None and Not Remote with On-Site, changes Hybrid Remote to Hybrid, and keeps Remote as is. Simplify and unify the classification of job postings based on work location</p>
-<div id="f11d24db" class="cell" data-execution_count="7">
+<div id="9049ac4b" class="cell" data-execution_count="7">
 <details class="code-fold">
 <summary>Code</summary>
 <div class="sourceCode cell-code" id="cb7"><pre class="sourceCode python code-with-copy"><code class="sourceCode python"><span id="cb7-1"><a href="#cb7-1" aria-hidden="true" tabindex="-1"></a><span class="co"># 6. Standardize Remote Work Types</span></span>
@@ -364,7 +364,7 @@ pre > code.sourceCode > span > a:first-child::before { text-decoration: underlin
 </section>
 <section id="save-the-cleaned-data" class="level2">
 <h2 class="anchored" data-anchor-id="save-the-cleaned-data">9. Save the cleaned data</h2>
-<div id="ce4bd392" class="cell" data-execution_count="8">
+<div id="5d0d29ac" class="cell" data-execution_count="8">
 <details class="code-fold">
 <summary>Code</summary>
 <div class="sourceCode cell-code" id="cb8"><pre class="sourceCode python code-with-copy"><code class="sourceCode python"><span id="cb8-1"><a href="#cb8-1" aria-hidden="true" tabindex="-1"></a><span class="co"># save data</span></span>

diff --git a/eda.html b/eda.html
@@ -226,7 +226,7 @@ pre > code.sourceCode > span > a:first-child::before { text-decoration: underlin
 </header>
 
 
-<div id="847b985e" class="cell" data-execution_count="1">
+<div id="54ac2c7e" class="cell" data-execution_count="1">
 <details class="code-fold">
 <summary>Code</summary>
 <div class="sourceCode cell-code" id="cb1"><pre class="sourceCode python code-with-copy"><code class="sourceCode python"><span id="cb1-1"><a href="#cb1-1" aria-hidden="true" tabindex="-1"></a><span class="im">import</span> pandas <span class="im">as</span> pd</span>
@@ -249,7 +249,7 @@ pre > code.sourceCode > span > a:first-child::before { text-decoration: underlin
 <h1>Exploratory Data Analysis (EDA)</h1>
 <section id="comparison-of-salary-between-remote-and-on-site-work-box-chart" class="level2">
 <h2 class="anchored" data-anchor-id="comparison-of-salary-between-remote-and-on-site-work-box-chart">1. Comparison of salary between remote and on-site work (box chart)</h2>
-<div id="690fe9e5" class="cell" data-execution_count="2">
+<div id="96f7fc1c" class="cell" data-execution_count="2">
 <details class="code-fold">
 <summary>Code</summary>
 <div class="sourceCode cell-code" id="cb2"><pre class="sourceCode python code-with-copy"><code class="sourceCode python"><span id="cb2-1"><a href="#cb2-1" aria-hidden="true" tabindex="-1"></a><span class="im">import</span> pandas <span class="im">as</span> pd</span>
@@ -287,7 +287,7 @@ pre > code.sourceCode > span > a:first-child::before { text-decoration: underlin
 </section>
 <section id="salary-by-region-map" class="level2">
 <h2 class="anchored" data-anchor-id="salary-by-region-map">2. Salary by region (map)</h2>
-<div id="5264b031" class="cell" data-execution_count="3">
+<div id="673b08bb" class="cell" data-execution_count="3">
 <details class="code-fold">
 <summary>Code</summary>
 <div class="sourceCode cell-code" id="cb3"><pre class="sourceCode python code-with-copy"><code class="sourceCode python"><span id="cb3-1"><a href="#cb3-1" aria-hidden="true" tabindex="-1"></a><span class="co"># STATE_NAME change to .abbr</span></span>
@@ -339,7 +339,7 @@ pre > code.sourceCode > span > a:first-child::before { text-decoration: underlin
 </section>
 <section id="the-highest-paying-job" class="level2">
 <h2 class="anchored" data-anchor-id="the-highest-paying-job">3. The highest paying job</h2>
-<div id="ac516a3f" class="cell" data-execution_count="4">
+<div id="287e4805" class="cell" data-execution_count="4">
 <details class="code-fold">
 <summary>Code</summary>
 <div class="sourceCode cell-code" id="cb4"><pre class="sourceCode python code-with-copy"><code class="sourceCode python"><span id="cb4-1"><a href="#cb4-1" aria-hidden="true" tabindex="-1"></a><span class="co"># Collecting data with .collect()</span></span>
@@ -374,7 +374,7 @@ pre > code.sourceCode > span > a:first-child::before { text-decoration: underlin
 </section>
 <section id="salary-comparison-between-ai-and-non-ai-positions" class="level2">
 <h2 class="anchored" data-anchor-id="salary-comparison-between-ai-and-non-ai-positions">4. Salary comparison between AI and non-AI positions</h2>
-<div id="fd8a9dc5" class="cell" data-execution_count="5">
+<div id="38b52c70" class="cell" data-execution_count="5">
 <details class="code-fold">
 <summary>Code</summary>
 <div class="sourceCode cell-code" id="cb5"><pre class="sourceCode python code-with-copy"><code class="sourceCode python"><span id="cb5-1"><a href="#cb5-1" aria-hidden="true" tabindex="-1"></a><span class="im">import</span> plotly.express <span class="im">as</span> px</span>
